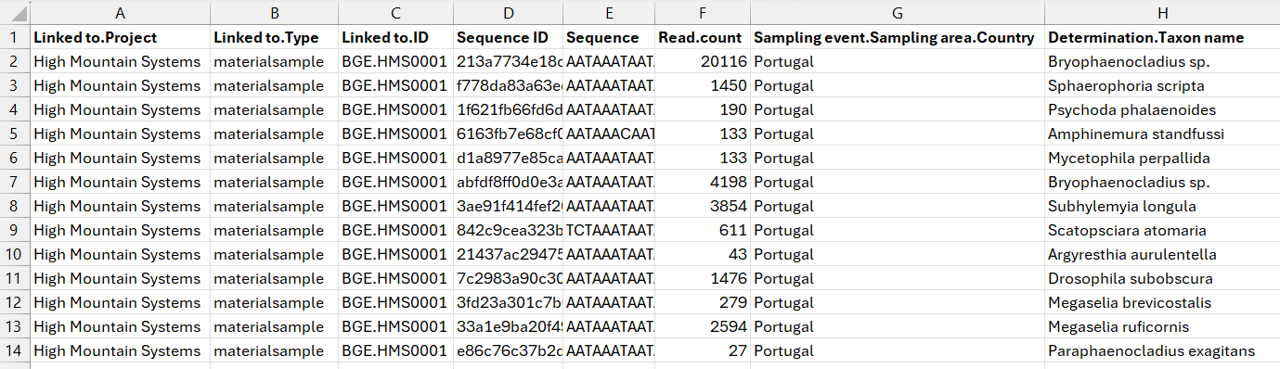
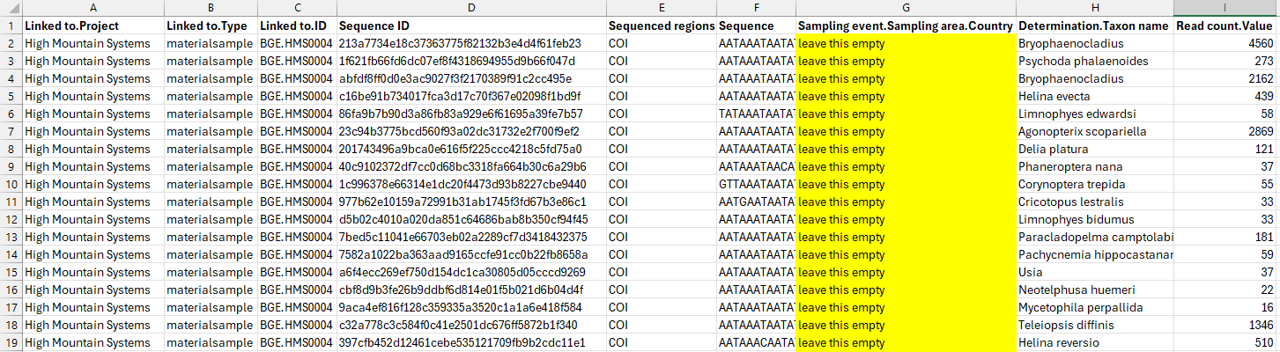
Sampling event.Sampling area.Country - leave empty

diff --git a/docs/8data_sharing.rst b/docs/8data_sharing.rst
@@ -415,6 +415,11 @@ Fill in the template file with the representative sequences of ASVs/OTUs per sam
   :width: 690
   :align: center
 
+.. note::
+  
+  Leave the column ``Sampling event.Sampling area.Country`` **empty** to 
+  automatically associate the sequence with the sample coordinates in PlutoF. 
+
 __________________________________________________
 
 .. _upload_sequence_template_file:
@@ -431,6 +436,7 @@ Once the template file is filled, it can be uploaded to PlutoF via the **Import 
   :align: center
 
 |
+
 
 **Upload** the filled template file, 
 
